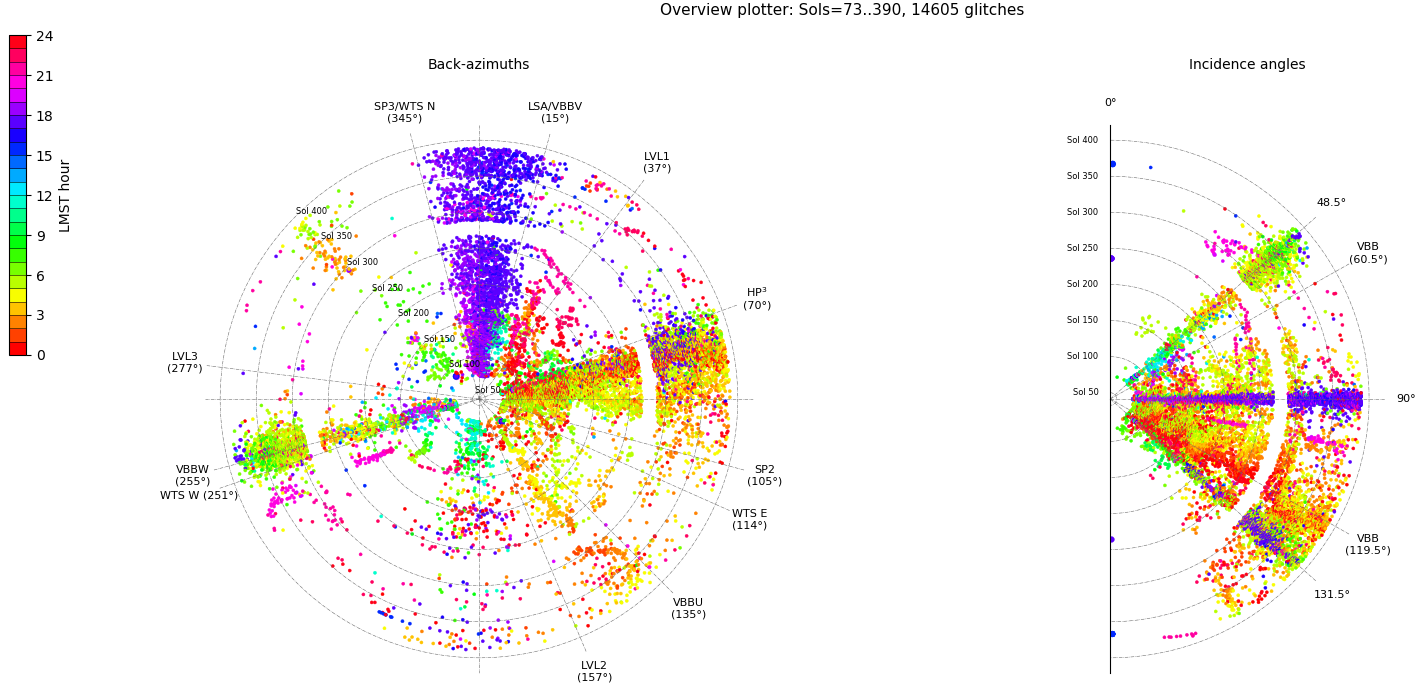
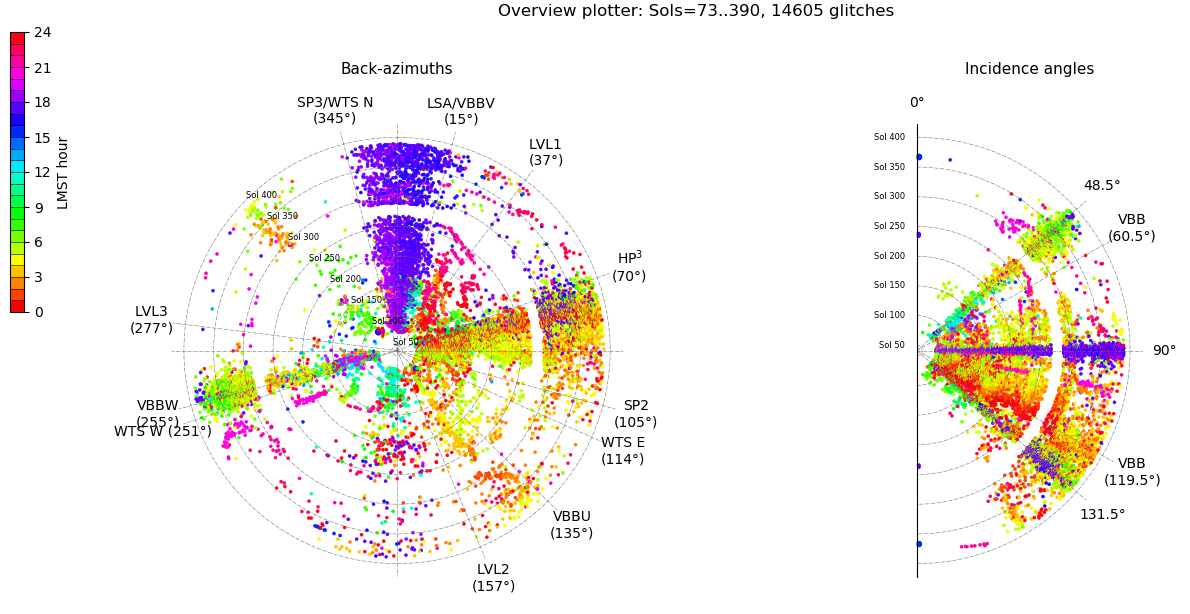
docs plotter

diff --git a/seisglitch/plot.py b/seisglitch/plot.py
@@ -694,9 +694,9 @@ def plot_glitch_overview(*glitch_files, run=True, waveform_files=[], outfile='',
 
 
     ### FIGURE 1
-    fig1 = plt.figure(figsize=(17,8))
+    fig1 = plt.figure(figsize=(14,7))
     fig1.canvas.set_window_title('Glitch overview plot 1')
-    fig1.suptitle('Overview plotter: Sols=%s..%s, %s glitches' % (sols_range[0], sols_range[-1], len(all_glitches)), fontsize=11, y=0.99)
+    fig1.suptitle('Overview plotter: Sols=%s..%s, %s glitches' % (sols_range[0], sols_range[-1], len(all_glitches)), fontsize=12, y=0.99)
     fig1.subplots_adjust(wspace=0.4, hspace=0.4)
     fig1.canvas.mpl_connect('pick_event', onpick)
     if outfile:
@@ -734,13 +734,13 @@ def plot_glitch_overview(*glitch_files, run=True, waveform_files=[], outfile='',
     sizes = normalise(sizes, scale_to_between=[5,20])
 
     ax   = fig1.add_subplot(121, polar=True)
-    ax.set_title('Back-azimuths', pad=20, size=10)
+    ax.set_title('Back-azimuths', pad=20, size=11)
     ax.spines['polar'].set_visible(False)
     ax.tick_params(pad=5)
 
     ax.set_theta_direction(-1)
     ax.set_theta_zero_location('N')
-    ax.set_thetagrids([0,15,37,70,90,105,114,135,157,180,251,255,270,277,345.5], labels=['','LSA/VBBV\n(15°)','LVL1\n(37°)', r'HP$^{3}$'+'\n(70°)','','SP2\n(105°)','WTS E\n(114°)',r'VBBU'+'\n(135°)','LVL2\n(157°)','','WTS W (251°)','VBBW\n(255°)','','LVL3\n(277°)','SP3/WTS N\n(345°)'], size=8)
+    ax.set_thetagrids([0,15,37,70,90,105,114,135,157,180,251,255,270,277,345.5], labels=['','LSA/VBBV\n(15°)','LVL1\n(37°)', r'HP$^{3}$'+'\n(70°)','','SP2\n(105°)','WTS E\n(114°)',r'VBBU'+'\n(135°)','LVL2\n(157°)','','WTS W (251°)','VBBW\n(255°)','','LVL3\n(277°)','SP3/WTS N\n(345°)'], size=10)
 
     #ax.set_rgrids([0.1,0.4,0.7,1], labels=['Hmin','','','Hmax'], size=6)
     ax.set_ylim( [min(sols_range)-0.1*(max(sols_range)-min(sols_range)), max(sols_range)+0.1*(max(sols_range)-min(sols_range))] )
@@ -758,7 +758,7 @@ def plot_glitch_overview(*glitch_files, run=True, waveform_files=[], outfile='',
     sizes = normalise(sizes , scale_to_between=[5,20])
 
     ax = fig1.add_subplot(122, polar=True)
-    ax.set_title('Incidence angles', pad=20, size=10)
+    ax.set_title('Incidence angles', pad=20, size=11)
     ax.spines['polar'].set_visible(False)
     ax.tick_params(pad=5)
 
@@ -766,7 +766,7 @@ def plot_glitch_overview(*glitch_files, run=True, waveform_files=[], outfile='',
     ax.set_theta_zero_location('N')
     ax.set_thetamin(0)
     ax.set_thetamax(180)
-    ax.set_thetagrids([0,48.5,60.5,90,131.5,119.5,180], labels=['0°','48.5°','VBB\n(60.5°)','90°','131.5°','VBB\n(119.5°)'], size=8)
+    ax.set_thetagrids([0,48.5,60.5,90,131.5,119.5,180], labels=['0°','48.5°','VBB\n(60.5°)','90°','131.5°','VBB\n(119.5°)'], size=10)
 
     #ax.set_rgrids([0.1,0.4,0.7,1], labels=['Zmin','','','Zmax'], fontsize=6)
     ax.set_ylim( [min(sols_range)-0.1*(max(sols_range)-min(sols_range)), max(sols_range)+0.1*(max(sols_range)-min(sols_range))] )
@@ -783,9 +783,9 @@ def plot_glitch_overview(*glitch_files, run=True, waveform_files=[], outfile='',
 
 
     ### FIGURE 2
-    fig2 = plt.figure(figsize=(17,8))
+    fig2 = plt.figure(figsize=(14,7))
     fig2.canvas.set_window_title('Glitch overview plot 2')
-    fig2.suptitle('Overview plotter: Sols=%s..%s, %s glitches' % (sols_range[0], sols_range[-1], len(all_glitches)), fontsize=11, y=0.99)
+    fig2.suptitle('Overview plotter: Sols=%s..%s, %s glitches' % (sols_range[0], sols_range[-1], len(all_glitches)), fontsize=12, y=0.99)
     fig2.subplots_adjust(wspace=0.4, hspace=0.4)
     fig2.canvas.mpl_connect('pick_event', onpick)
 
@@ -802,7 +802,7 @@ def plot_glitch_overview(*glitch_files, run=True, waveform_files=[], outfile='',
     sizes = normalise(sizes, scale_to_between=[5,20])
 
     ax = fig2.add_subplot(121, projection='3d')
-    ax.set_title('3-D Polarizations', y=1.10, size=10)
+    ax.set_title('3-D Polarizations', y=1.10, size=11)
     ax.view_init(elev=15., azim=-50)
     ax.set_xlabel('E', labelpad=2, fontsize=8)
     ax.set_ylabel('N', labelpad=2, fontsize=8)
